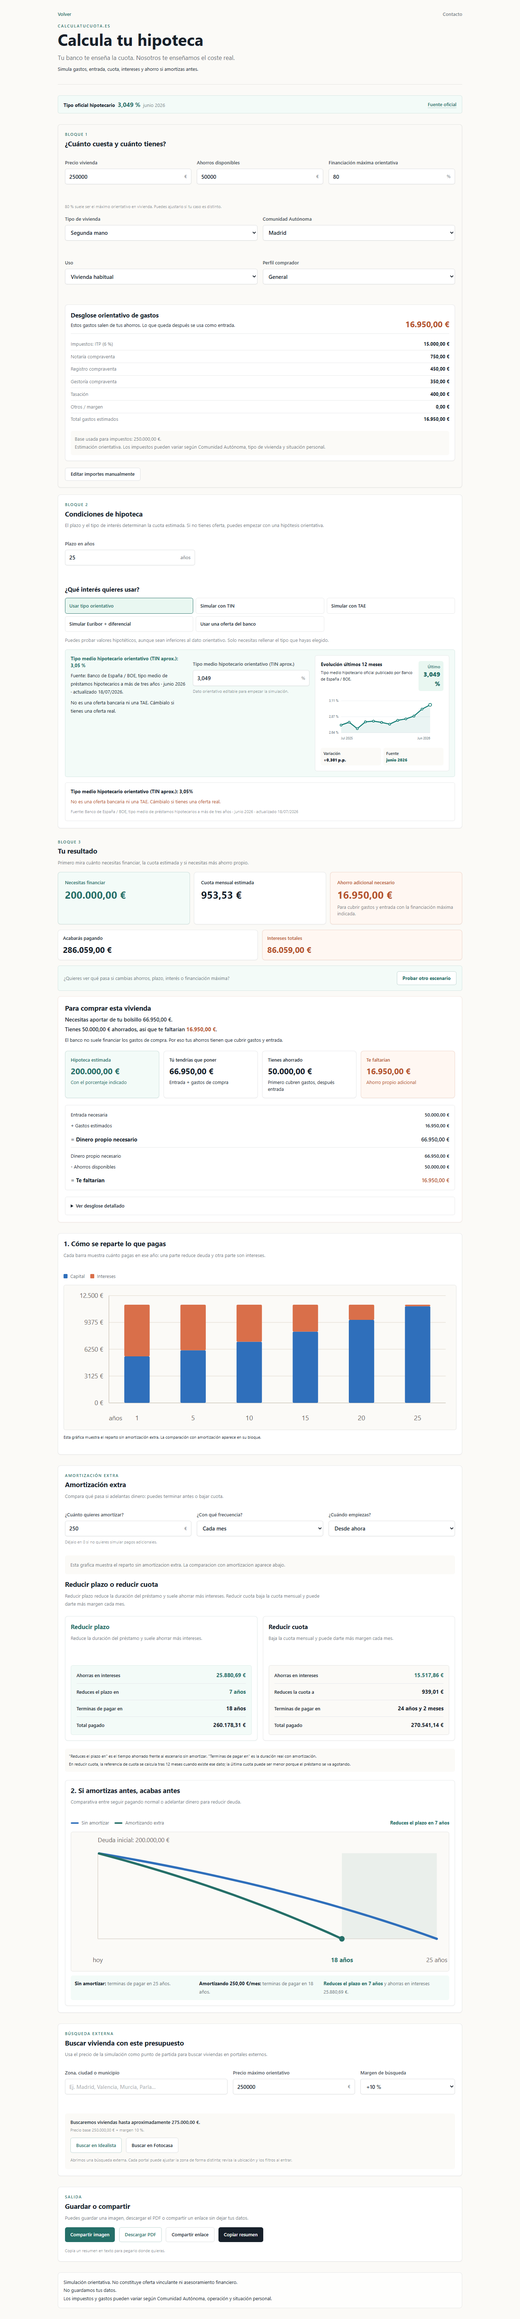
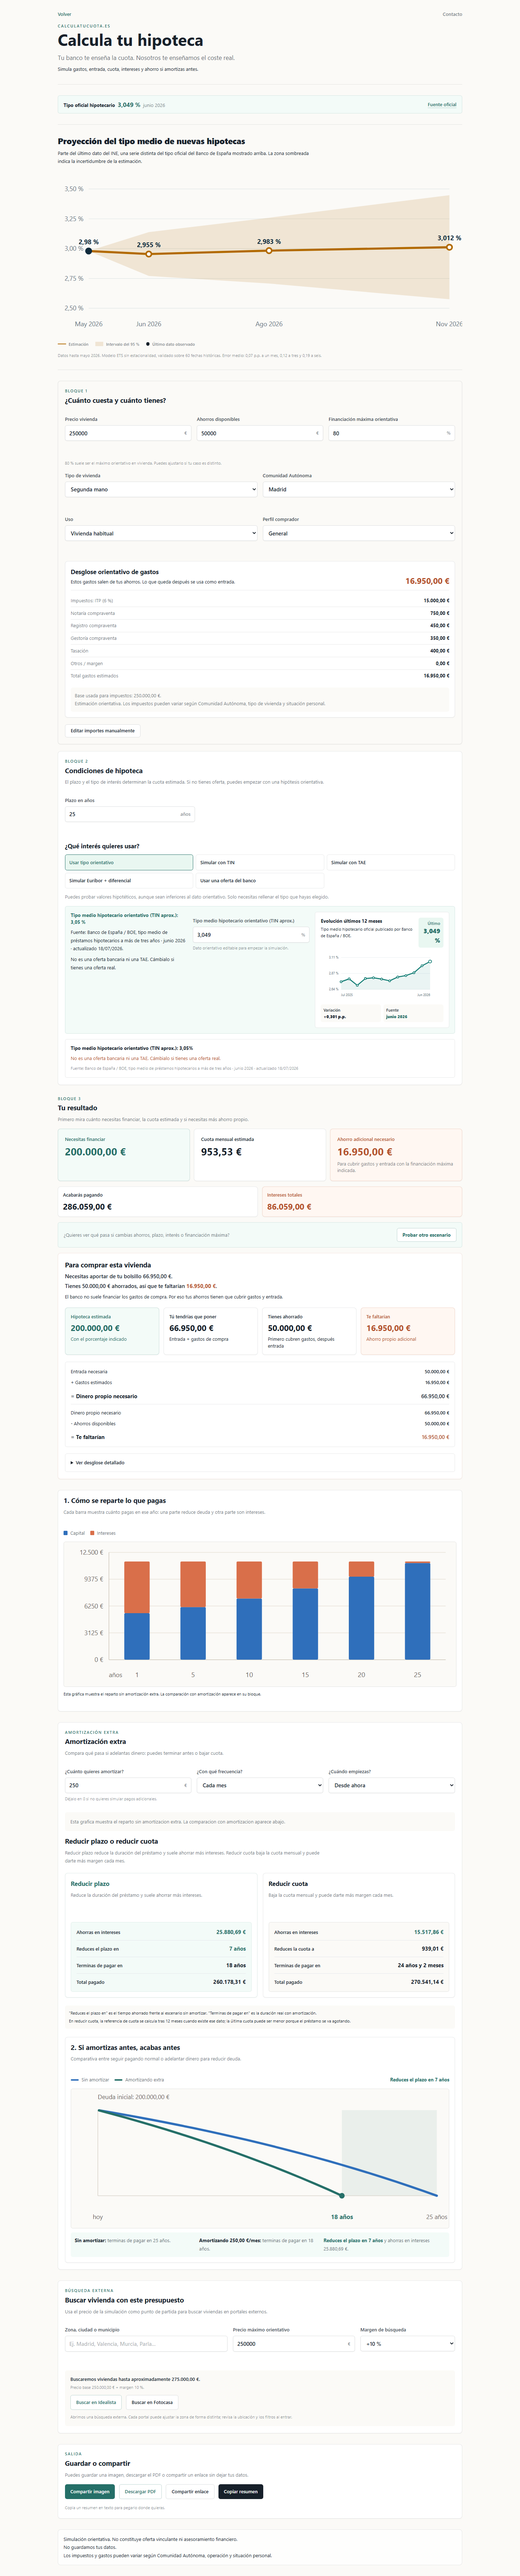
Actualiza el showcase final con la proyeccion hipotecaria

diff --git a/README.md b/README.md
@@ -2,7 +2,7 @@
 
 Herramienta financiera web para simular hipotecas, préstamos personales y amortización anticipada, y consultar la evolución del mercado hipotecario español con datos oficiales.
 
-[![Proyecto activo](https://img.shields.io/badge/estado-activo-brightgreen)]()
+[![Proyecto finalizado](https://img.shields.io/badge/estado-finalizado-blue)]()
 [![Código privado](https://img.shields.io/badge/código-privado-lightgrey)]()
 [![Astro](https://img.shields.io/badge/Astro-web-orange)]()
 [![React](https://img.shields.io/badge/React-UI-blue)]()
@@ -14,7 +14,7 @@ Herramienta financiera web para simular hipotecas, préstamos personales y amort
 
 ## Demo
 
-Web en producción:
+Web publicada:
 
 **https://calculatucuota.es**
 
@@ -185,25 +185,20 @@ Este repositorio es únicamente una presentación pública del proyecto. No cont
 
 ## Estado del proyecto
 
-Proyecto activo en producción.
+Proyecto finalizado y publicado.
 
 La aplicación combina simuladores financieros con información pública del mercado hipotecario para que el usuario pueda entender una financiación antes de hablar con un banco o comparar ofertas.
 
 ---
 
-## Roadmap
+## Mantenimiento
 
-Próximas mejoras previstas:
+El desarrollo funcional está cerrado. El mantenimiento posterior se limita a:
 
-- mejorar SEO y contenidos informativos;
-- añadir más explicaciones para usuarios no técnicos;
-- mejorar el sistema de compartir en móvil;
-- añadir comisión de amortización anticipada en porcentaje;
-- automatizar por completo la actualización mensual de los datos oficiales;
+- actualizar los datos oficiales cuando se publique un nuevo periodo;
 - acumular un historial público de previsiones y resultados observados;
-- añadir más ejemplos guiados;
-- mejorar la salida visual de informes;
-- preparar comparativas más avanzadas.
+- enviar y mantener el sitemap en Google Search Console;
+- trabajar el posicionamiento SEO según las consultas reales de búsqueda.
 
 ---
 
